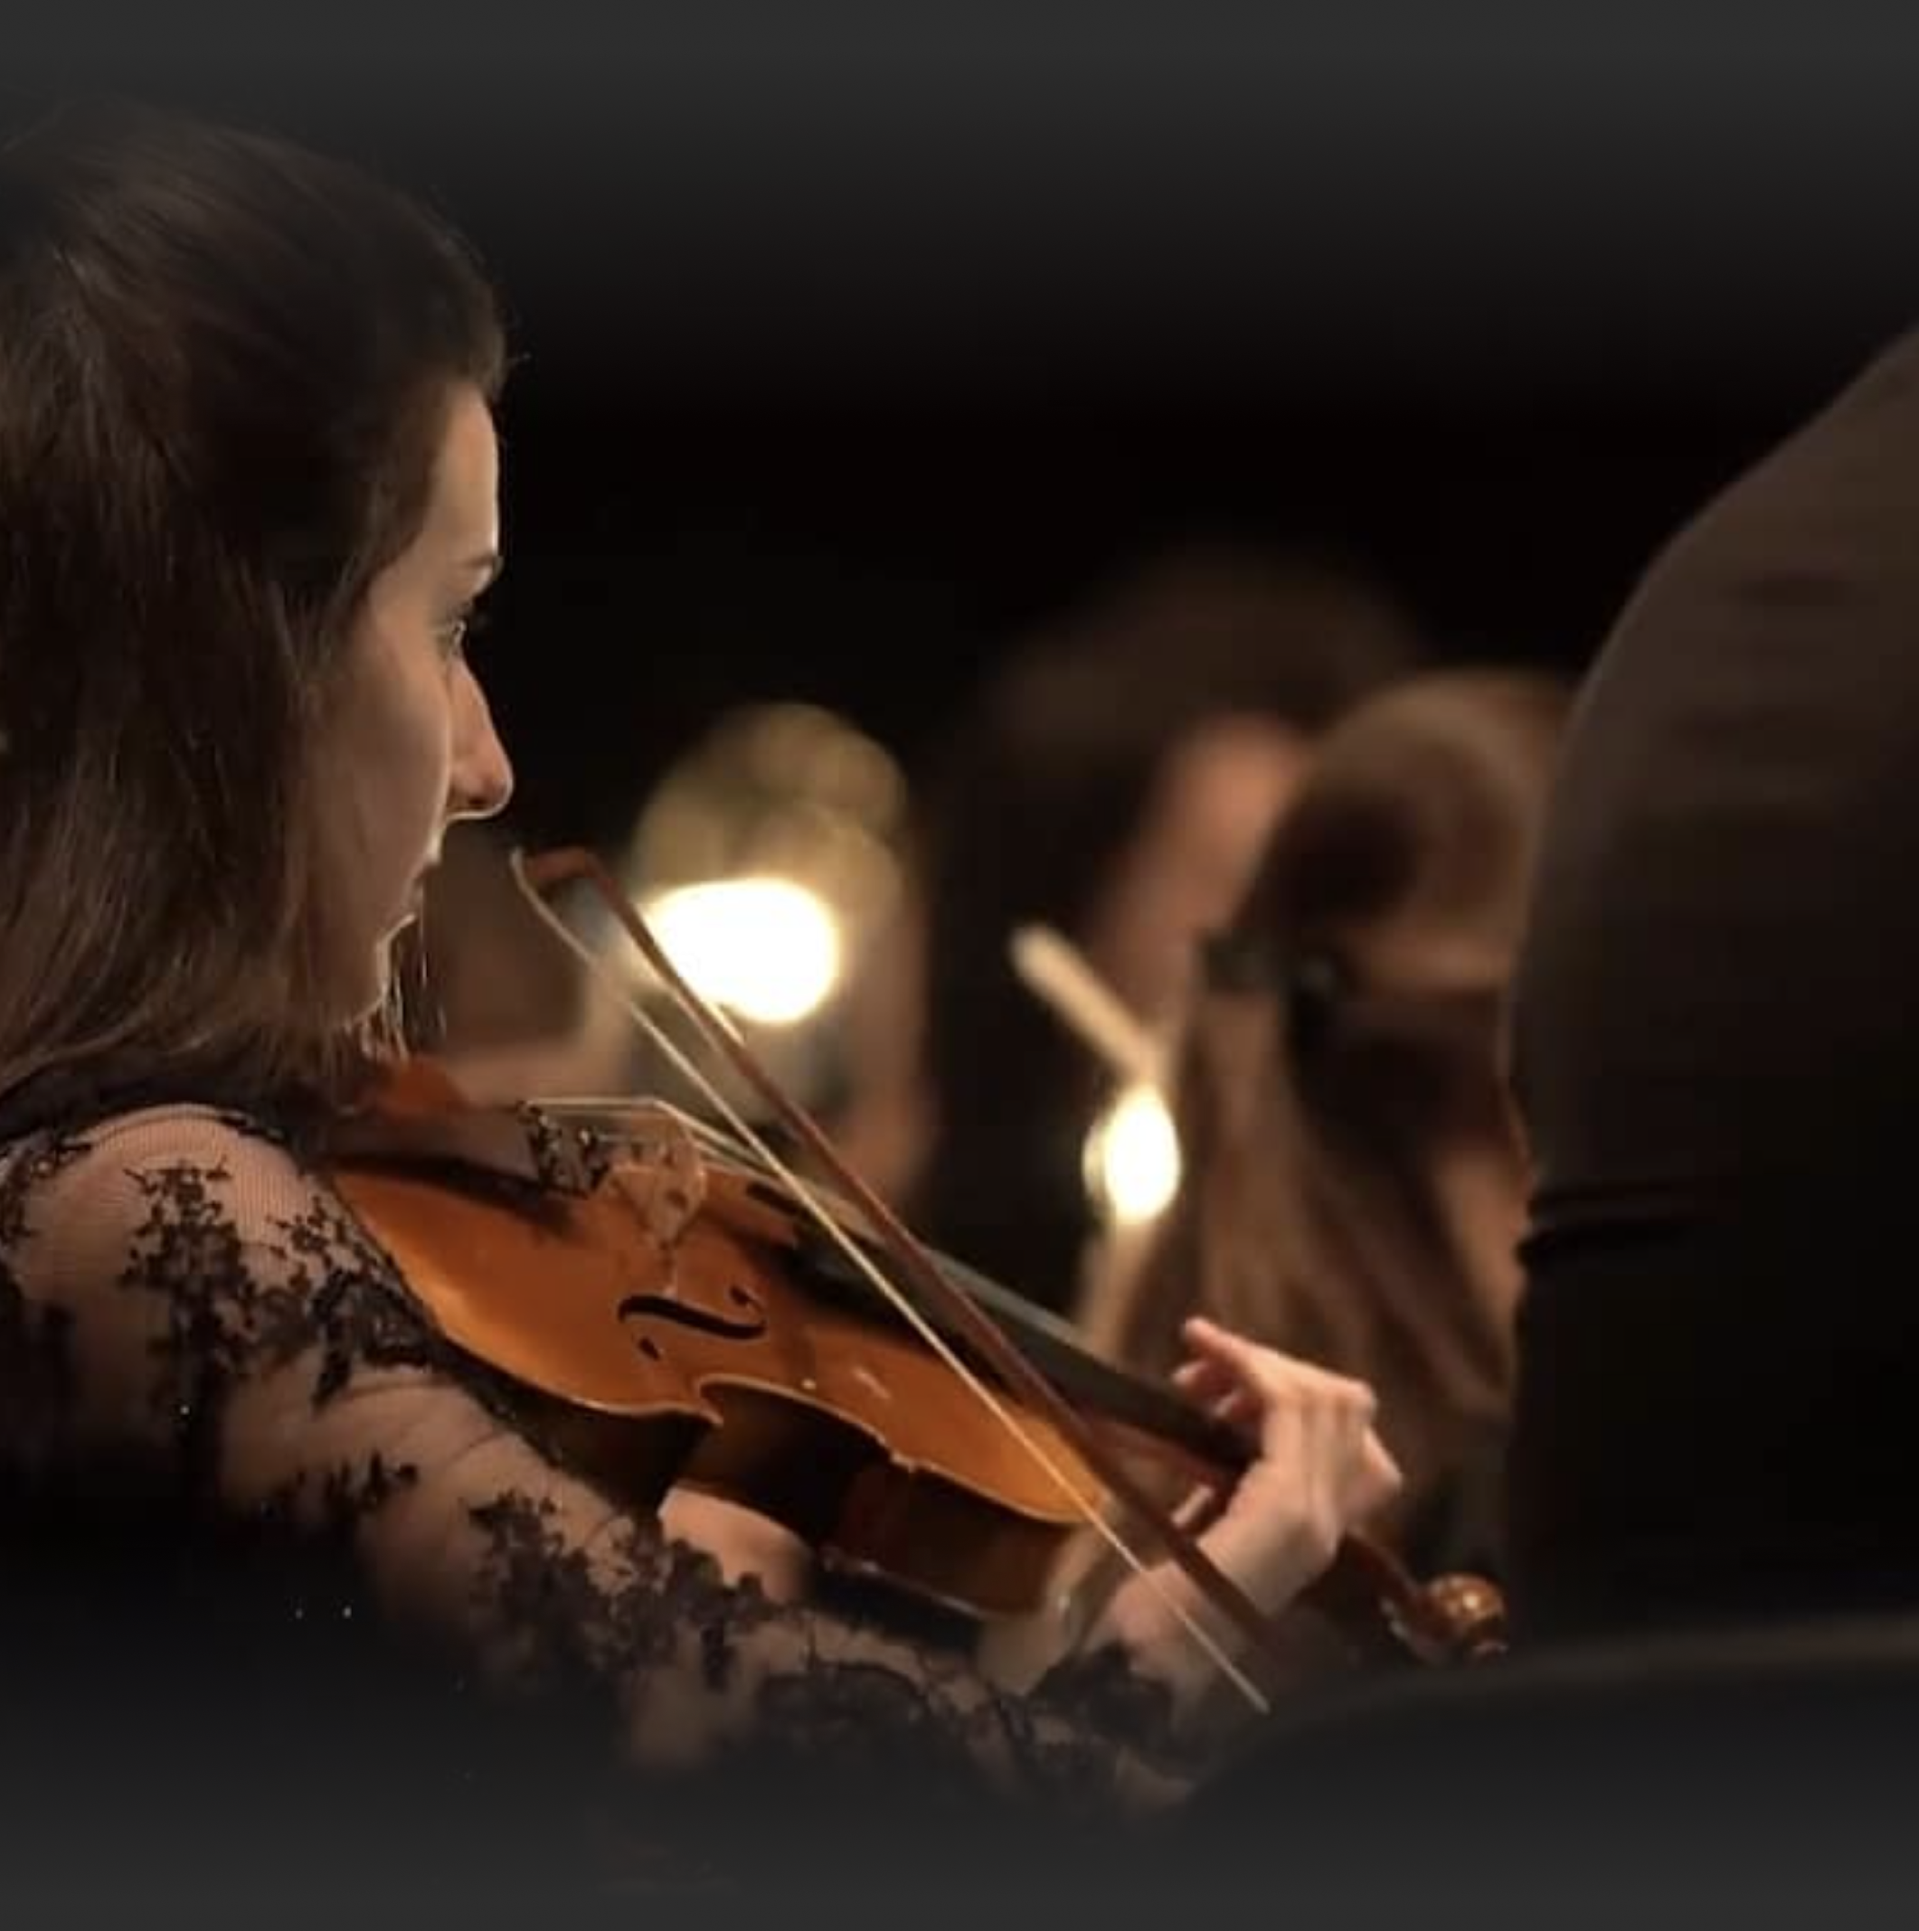
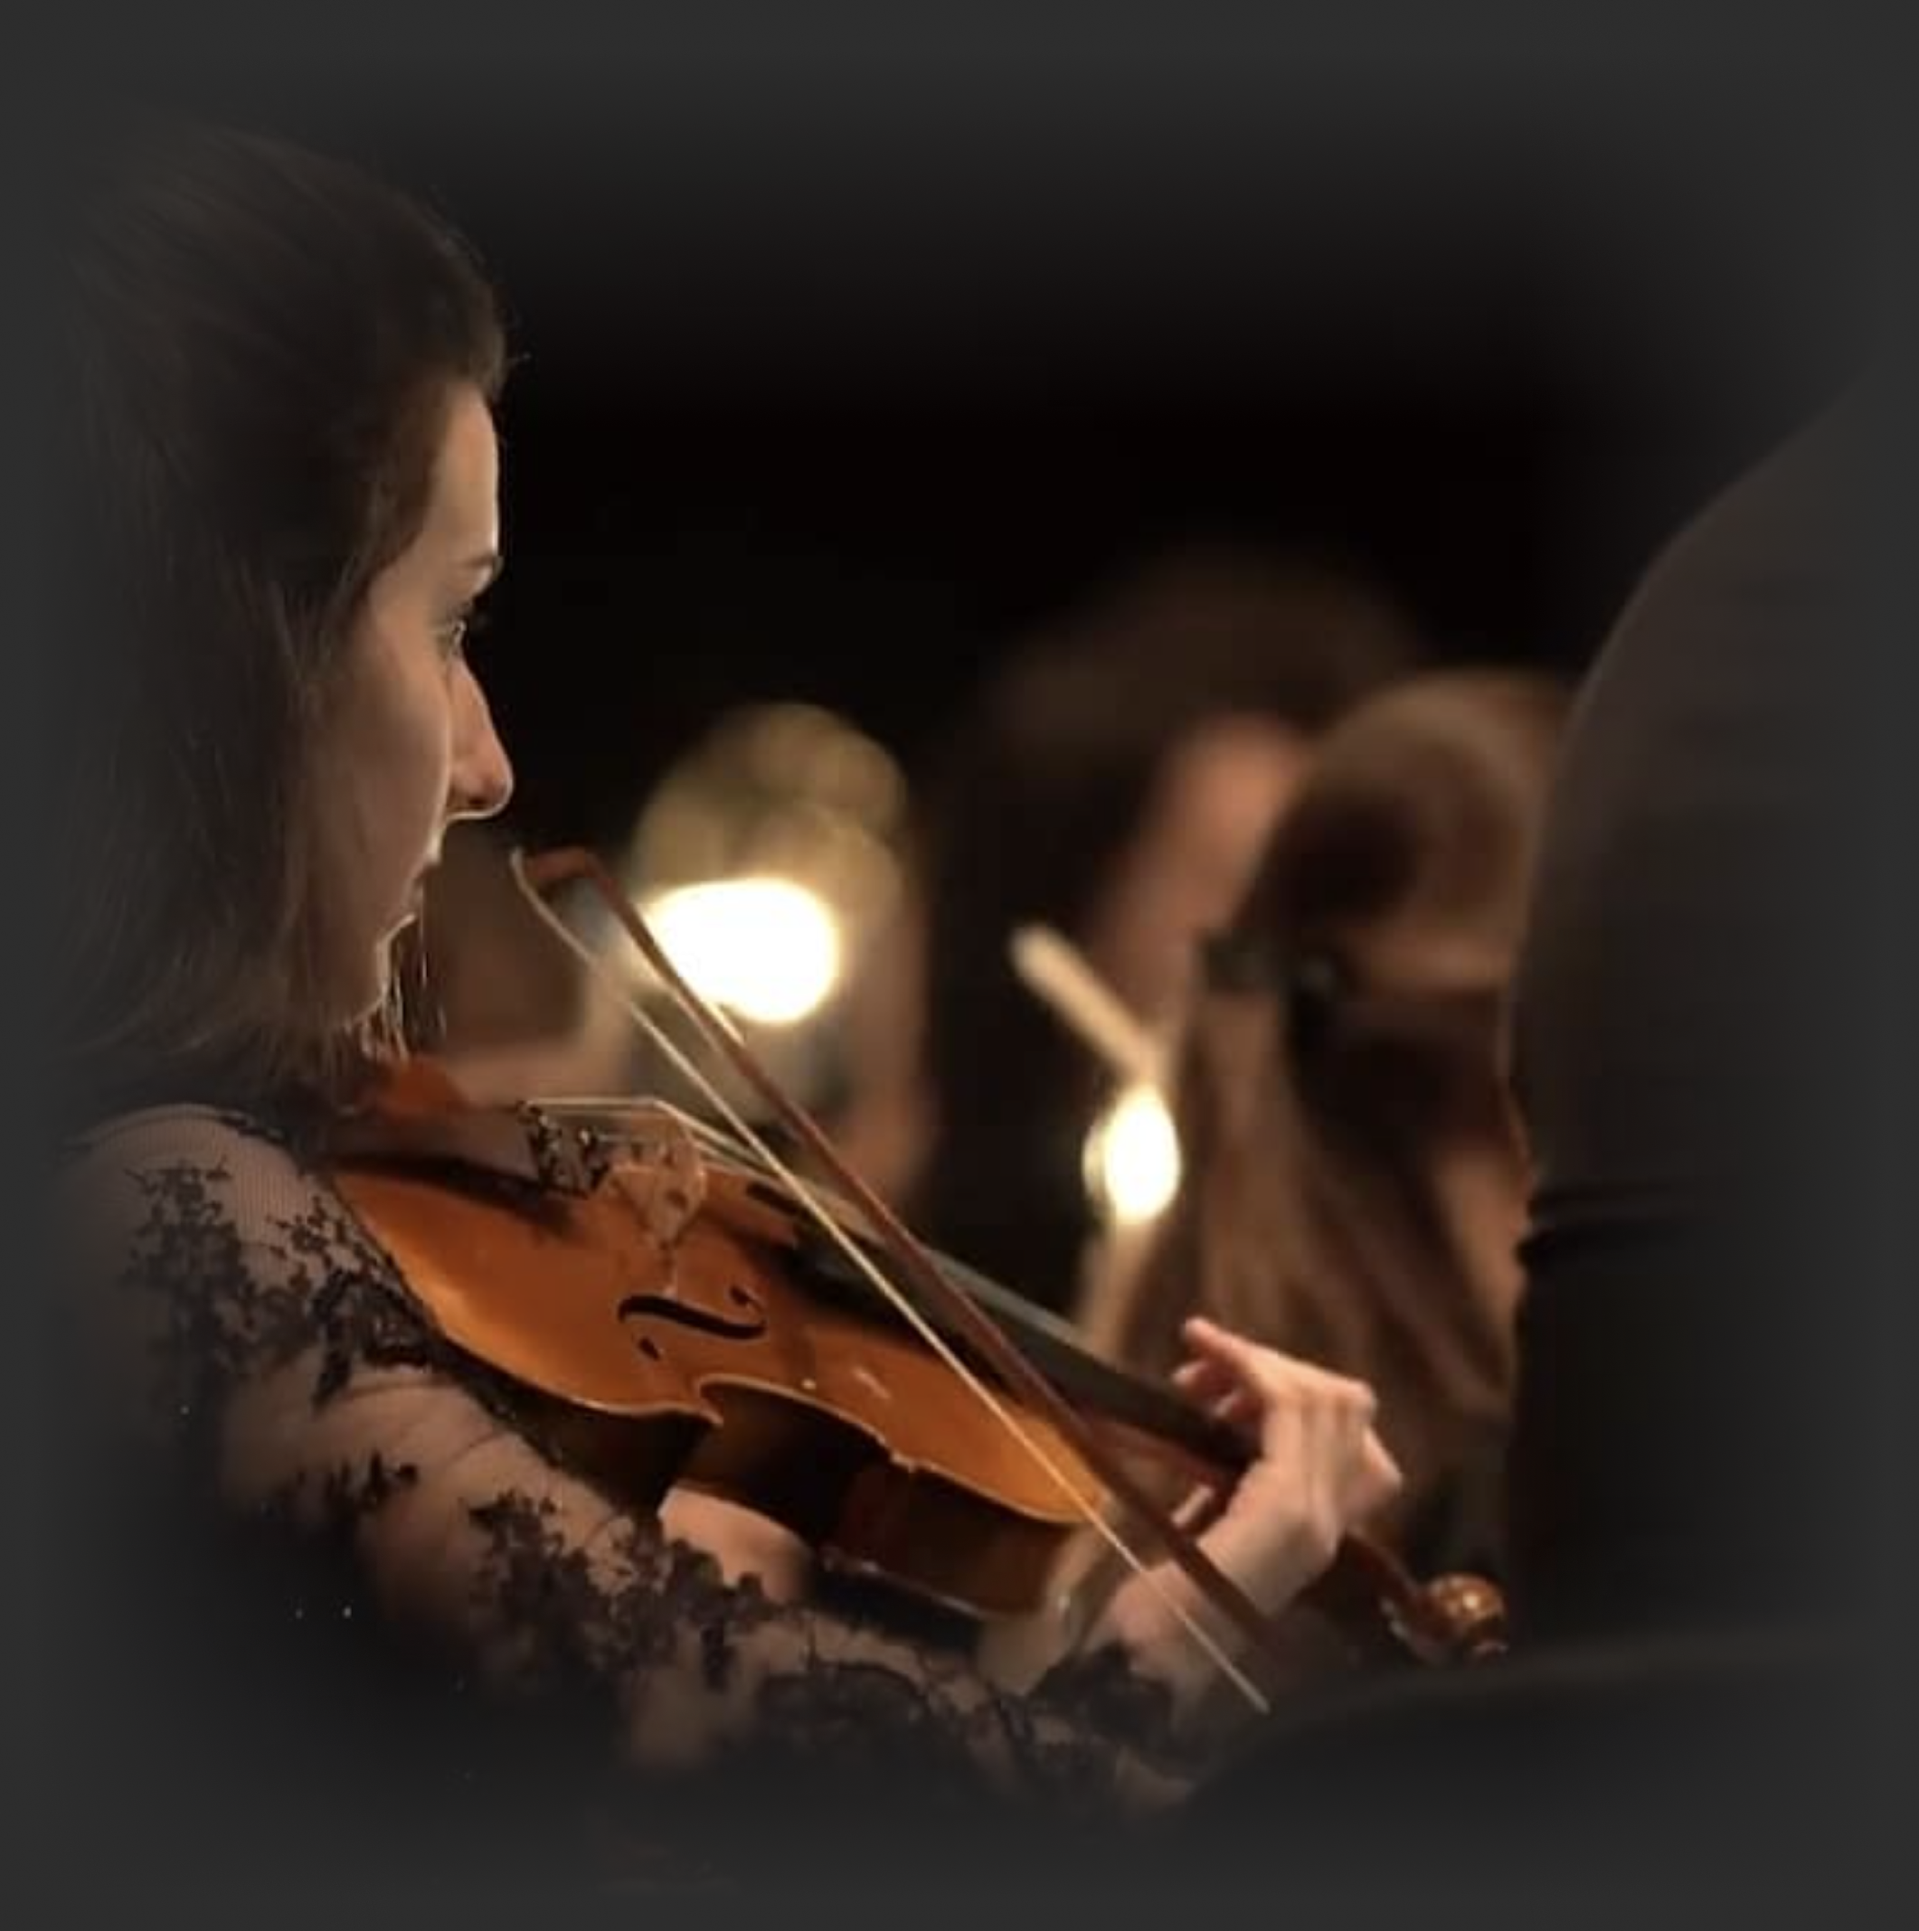
layout hierarchy overhaul

diff --git a/components/BGImage.tsx b/components/BGImage.tsx
@@ -1,12 +1,12 @@
 import Image from 'next/image';
 import useAppDimensions from '../hooks/useAppDimensions';
-import { Box, Stack } from '@mui/material';
+import { Box } from '@mui/material';
 import { useRouter } from 'next/router';
 
 import indexBGDesktop from '../public/images/main-page-background.png';
 import indexBGMobile from '../public/images/main-page-background-mobile.png';
-import aboutDesktop from '../public/images/about-me-photo-desktop.png';
-import contactDesktop from '../public/images/contact-background-desktop.png';
+// import aboutDesktop from '../public/images/about-me-photo-desktop.png';
+// import contactDesktop from '../public/images/contact-background-desktop.png';
 
 export default function BGImage() {
   const router = useRouter();
@@ -64,67 +64,67 @@ export default function BGImage() {
           </Box>
         );
 
-      case '/about':
-        if (!isMobile)
-          return (
-            <Stack
-              height="100%"
-              width="100%"
-              id="about-me-bg"
-              justifyContent="center"
-            >
-              <Box
-                zIndex={0}
-                maxHeight="900px"
-                style={{
-                  filter: 'blur(1px)',
-                  height: '100%',
-                  position: 'fixed',
-                  right: 0,
-                  width: '70%',
-                }}
-              >
-                <Image
-                  src={aboutDesktop.src}
-                  alt="about-page-background"
-                  layout="fill"
-                  objectFit="contain"
-                  loading="lazy"
-                />
-              </Box>
-            </Stack>
-          );
+      // case '/about':
+      //   if (!isMobile)
+      //     return (
+      //       <Stack
+      //         height="100%"
+      //         id="about-me-bg"
+      //         justifyContent="center"
+      //         width="100%"
+      //       >
+      //         <Box
+      //           zIndex={0}
+      //           maxHeight="900px"
+      //           style={{
+      //             filter: 'blur(1px)',
+      //             height: '100%',
+      //             position: 'fixed',
+      //             right: 0,
+      //             width: '70%',
+      //           }}
+      //         >
+      //           <Image
+      //             src={aboutDesktop.src}
+      //             alt="about-page-background"
+      //             layout="fill"
+      //             objectFit="contain"
+      //             loading="lazy"
+      //           />
+      //         </Box>
+      //       </Stack>
+      //     );
 
-      case '/contact':
-        if (!isMobile)
-          return (
-            <Stack
-              height="100%"
-              width="100%"
-              id="about-me-bg"
-              justifyContent="center"
-            >
-              <Box
-                zIndex={0}
-                maxHeight="900px"
-                style={{
-                  filter: 'blur(1px)',
-                  height: '100%',
-                  position: 'fixed',
-                  left: 0,
-                  width: '70%',
-                }}
-              >
-                <Image
-                  src={contactDesktop.src}
-                  alt="about-page-background"
-                  layout="fill"
-                  objectFit="contain"
-                  loading="lazy"
-                />
-              </Box>
-            </Stack>
-          );
+      // case '/contact':
+      //   if (!isMobile)
+      //     return (
+      //       <Stack
+      //         height="100%"
+      //         width="100%"
+      //         id="about-me-bg"
+      //         justifyContent="center"
+      //       >
+      //         <Box
+      //           zIndex={0}
+      //           // maxHeight="900px"
+      //           style={{
+      //             filter: 'blur(1.8px)',
+      //             height: '100%',
+      //             position: 'fixed',
+      //             left: 0,
+      //             width: '70%',
+      //           }}
+      //         >
+      //           <Image
+      //             src={contactDesktop.src}
+      //             alt="about-page-background"
+      //             layout="fill"
+      //             objectFit="contain"
+      //             loading="lazy"
+      //           />
+      //         </Box>
+      //       </Stack>
+      //     );
       default:
         return null;
     }

diff --git a/pages/contact.tsx b/pages/contact.tsx
@@ -3,6 +3,7 @@ import Image from 'next/image';
 import type { NextPage } from 'next';
 import { Box, Button, Stack, TextField, Typography } from '@mui/material';
 
+import contactDesktop from '../public/images/contact-background-desktop.png';
 import Layout from '../components/Layout';
 import Theme from '../app/Theme';
 import useAppDimensions from '../hooks/useAppDimensions';
@@ -159,6 +160,35 @@ const Contact: NextPage = () => {
 
   return (
     <Layout pageTitle="About me" centered>
+      <Stack
+        height="100%"
+        id="contact-me-bg"
+        justifyContent="center"
+        position="fixed"
+        top="1"
+        width="100%"
+      >
+        <Box
+          zIndex={0}
+          maxHeight="900px"
+          style={{
+            filter: 'blur(1.8px)',
+            height: '100%',
+            position: 'fixed',
+            left: 0,
+            width: '70%',
+          }}
+        >
+          <Image
+            src={contactDesktop.src}
+            alt="about-page-background"
+            layout="fill"
+            objectFit="contain"
+            loading="lazy"
+          />
+        </Box>
+      </Stack>
+
       <Stack alignItems="flex-end" height="100%" width="100%">
         <Stack
           flex={1}

diff --git a/pages/about.tsx b/pages/about.tsx
@@ -8,6 +8,7 @@ import Layout from '../components/Layout';
 import { body as about } from '../localization/locales/pt-PT/about.json';
 // import Theme from '../app/Theme';
 import useAppDimensions from '../hooks/useAppDimensions';
+import aboutDesktop from '../public/images/about-me-photo-desktop.png';
 
 const About: NextPage = () => {
   const { isMobile } = useAppDimensions();
@@ -72,6 +73,35 @@ const About: NextPage = () => {
 
   return (
     <Layout pageTitle="About me" centered>
+      <Stack
+        height="100%"
+        id="about-me-bg"
+        justifyContent="center"
+        position="fixed"
+        top="1"
+        width="100%"
+      >
+        <Box
+          zIndex={0}
+          maxHeight="900px"
+          style={{
+            filter: 'blur(1px)',
+            height: '100%',
+            position: 'fixed',
+            right: 0,
+            width: '70%',
+          }}
+        >
+          <Image
+            src={aboutDesktop.src}
+            alt="about-page-background"
+            layout="fill"
+            objectFit="contain"
+            loading="lazy"
+          />
+        </Box>
+      </Stack>
+
       <Stack
         flex={1}
         id="about-container"

diff --git a/pages/_app.tsx b/pages/_app.tsx
@@ -46,17 +46,37 @@ function MyApp({ Component, pageProps }: AppProps) {
             alignItems: 'center',
             height: '100%',
             justifyContent: 'center',
-            position: 'fixed',
+            // position: 'fixed',
             width: '100%',
             zIndex: '2',
           }}
         >
-          {isMobile ? <NavbarMobile /> : <NavbarDesktop />}
+          <Stack
+            sx={{
+              alignItems: 'center',
+              justifyContent: 'center',
+              position: 'sticky',
+              width: '100%',
+              top: 0,
+              zIndex: '1000',
+            }}
+          >
+            {isMobile ? <NavbarMobile /> : <NavbarDesktop />}
+          </Stack>
           <Component {...pageProps} />
           <Footer />
         </Stack>
 
-        <BGImage />
+        <Stack
+          sx={{
+            alignItems: 'center',
+            height: '100%',
+            position: 'absolute',
+            width: '100%',
+          }}
+        >
+          <BGImage />
+        </Stack>
       </ThemeProvider>
     </>
   );

diff --git a/styles/globals.css b/styles/globals.css
@@ -6,8 +6,7 @@ body {
   max-width: 100%;
   min-height: 100vh;
   padding: 0;
-  /* background: #000; */
-  /* font-family: 'Sarabun', sans-serif; */
+  width: 100%;
 }
 
 #__next {
@@ -21,10 +20,6 @@ body {
   max-width: 100vw;
   padding: 0;
   width: 100%;
-}
-
-::-webkit-scrollbar {
-  background-color: transparent;
 }
 
 a {
@@ -51,10 +46,6 @@ a {
   text-overflow: ellipsis;
 }
 
-.css-1gfbdld-MuiPaper-root-MuiAccordion-root::before {
-  background-color: white !important;
-}
-
 .Roboto {
   font-family: Roboto, sans-serif;
 }
@@ -67,12 +58,20 @@ a {
   );
 }
 
+#navbar-desktop-solid {
+  background: #2d2d2d;
+}
+
 #navbar-mobile-gradient-closed {
   background: linear-gradient(
     180deg,
     rgba(0, 0, 0, 0.62) 4.69%,
     rgba(0, 0, 0, 0) 100%
   );
+}
+
+#navbar-mobile-gradient-solid {
+  background: #2d2d2d;
 }
 
 #index-gradient-desktop {

diff --git a/components/navbar/NavbarMobile.tsx b/components/navbar/NavbarMobile.tsx
@@ -24,6 +24,11 @@ export default function Navbar() {
 
   const handleClose = () => setOpen(false);
 
+  const navbarId =
+    router.pathname === '/'
+      ? 'navbar-mobile-gradient-closed'
+      : 'navbar-mobile-gradient-solid';
+
   const Header = () => (
     <Stack
       justifyContent="space-between"
@@ -57,7 +62,7 @@ export default function Navbar() {
   return (
     <>
       <Box
-        id="navbar-mobile-gradient-closed"
+        id={navbarId}
         sx={{
           border: 'none',
           paddingX: paddingXMobile,

diff --git a/components/navbar/NavbarDesktop.tsx b/components/navbar/NavbarDesktop.tsx
@@ -21,11 +21,16 @@ export default function Navbar() {
 
   const colors = Theme.palette;
 
+  const navbarId =
+    router.pathname === '/'
+      ? 'navbar-desktop-gradient'
+      : 'navbar-desktop-solid';
+
   return (
     <Stack
       alignItems="center"
       className="navbar navbar-desktop"
-      id="navbar-desktop-gradient"
+      id={navbarId}
       justifyContent="center"
       left={0}
       maxHeight="115px"
